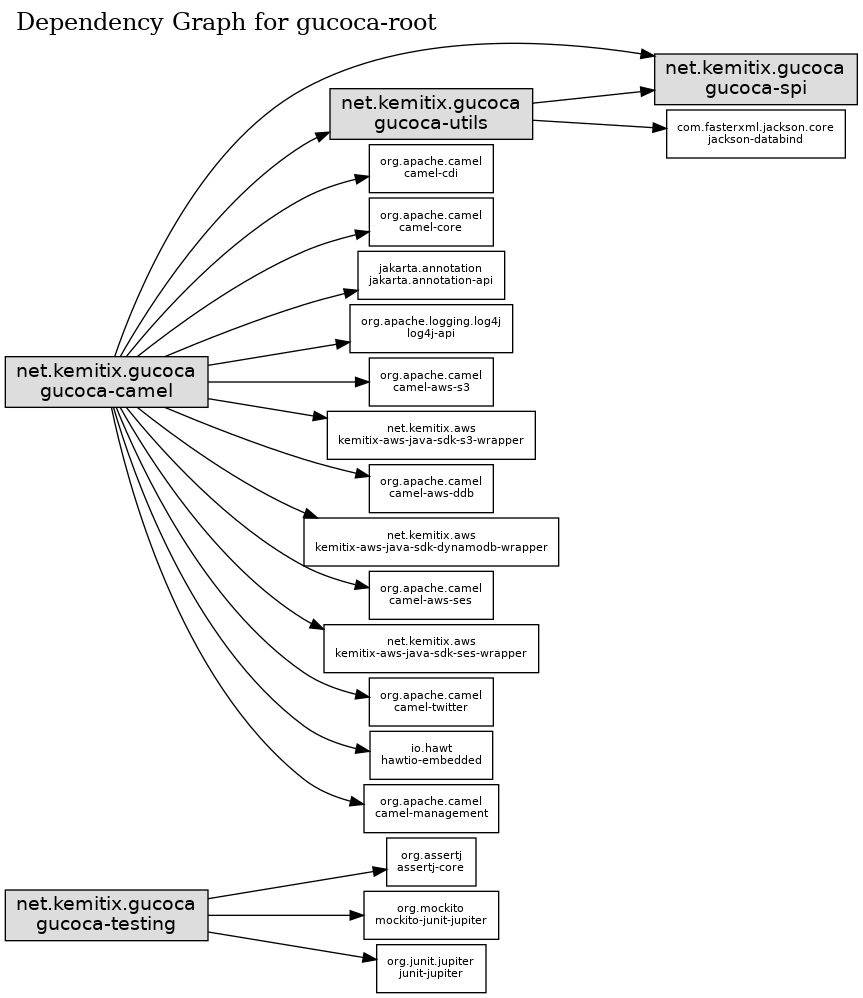
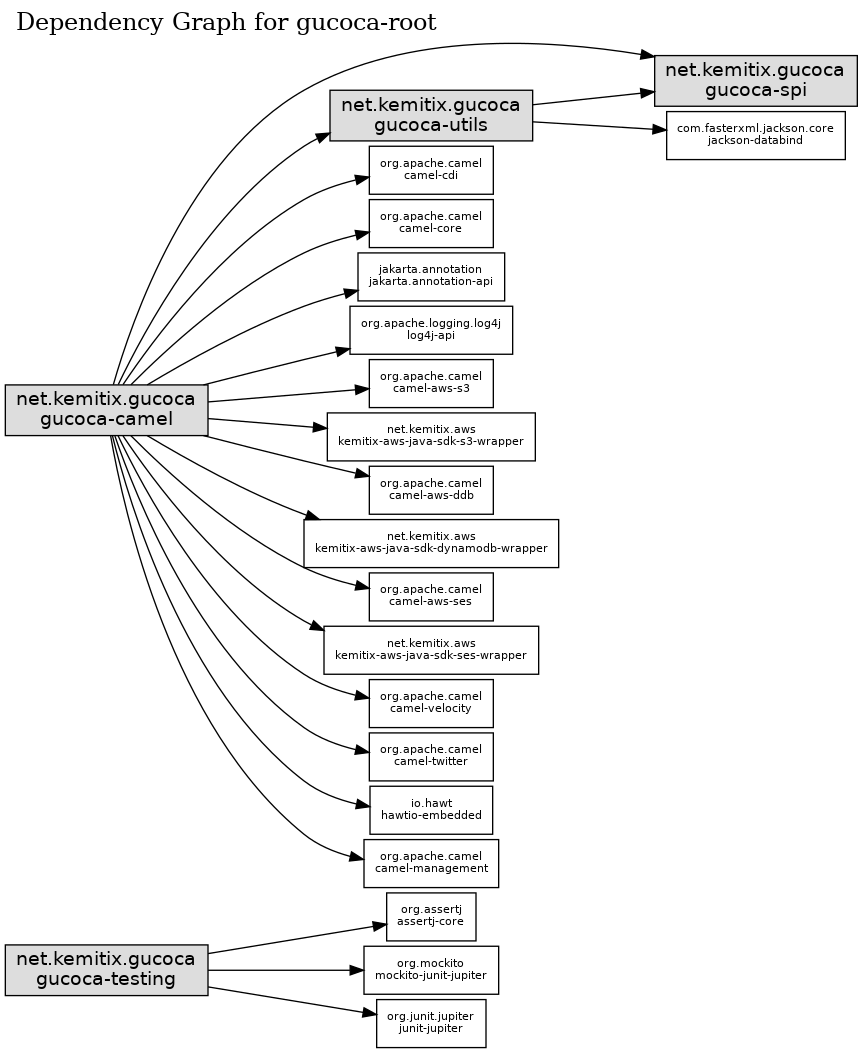
Use velocity template for notification email (#62)

diff --git a/camel/src/main/java/net/kemitix/gucoca/camel/stories/StoriesRoutes.java b/camel/src/main/java/net/kemitix/gucoca/camel/stories/StoriesRoutes.java
@@ -2,13 +2,15 @@ package net.kemitix.gucoca.camel.stories;
 
 import net.kemitix.gucoca.camel.email.SendEmail;
 import net.kemitix.gucoca.spi.GucocaConfig;
-import net.kemitix.gucoca.spi.Story;
-import org.apache.camel.Message;
-import org.apache.camel.Processor;
 import org.apache.camel.builder.RouteBuilder;
+import org.apache.camel.builder.SimpleBuilder;
+import org.apache.camel.builder.ValueBuilder;
+import org.apache.camel.component.aws.ses.SesConstants;
 
 import javax.inject.Inject;
 import java.net.InetAddress;
+import java.net.UnknownHostException;
+import java.util.Collections;
 
 class StoriesRoutes
         extends RouteBuilder
@@ -19,7 +21,7 @@ class StoriesRoutes
     @Inject StoryLoader storyLoader;
 
     @Override
-    public void configure() {
+    public void configure() throws UnknownHostException {
 
         from(LOAD_STORIES)
                 .routeId("load-stories")
@@ -35,31 +37,22 @@ class StoriesRoutes
                 .bean(storyLoader, "addStoryCard")
         ;
 
+        ValueBuilder sender = constant(config.getEmailSender());
+        ValueBuilder recipient = constant(Collections.singletonList(
+                config.getNotificationRecipient()));
+        SimpleBuilder subject = simple(
+                "Story Selected: ${body.title} by ${body.author}");
+        ValueBuilder hostname = constant(
+                InetAddress.getLocalHost().getHostName());
         from(NOTIFY_SELECTION)
-                .process(prepareNotificationEmail())
+                .setHeader(SesConstants.FROM, sender)
+                .setHeader(SesConstants.TO, recipient)
+                .setHeader(SesConstants.HTML_EMAIL, constant(true))
+                .setHeader(SesConstants.SUBJECT, subject)
+                .setHeader("Hostname", hostname)
+                .to("velocity://gucoca/stories/selected-notice.vm")
                 .to(SendEmail.SEND)
         ;
     }
 
-    private Processor prepareNotificationEmail() {
-        return exchange -> {
-            Message in = exchange.getIn();
-            Story story = in.getBody(Story.class);
-            sendEmail
-                    .message(in)
-                    .from(config.getEmailSender())
-                    .to(config.getNotificationRecipient())
-                    .subject(String.format("Story Selected: %s by %s",
-                            story.getTitle(),
-                            story.getAuthor()
-                    ))
-                    .html()
-                    .body(String.format("<h1>Selected: %s by %s</h1>" +
-                                    "<p>This story has been selected to be promoted " +
-                                    "on Twitter.</p>" +
-                                    "<p>Sent from: %s</p>",
-                            story.getTitle(), story.getAuthor(),
-                            InetAddress.getLocalHost().getHostName()));
-        };
-    }
 }
